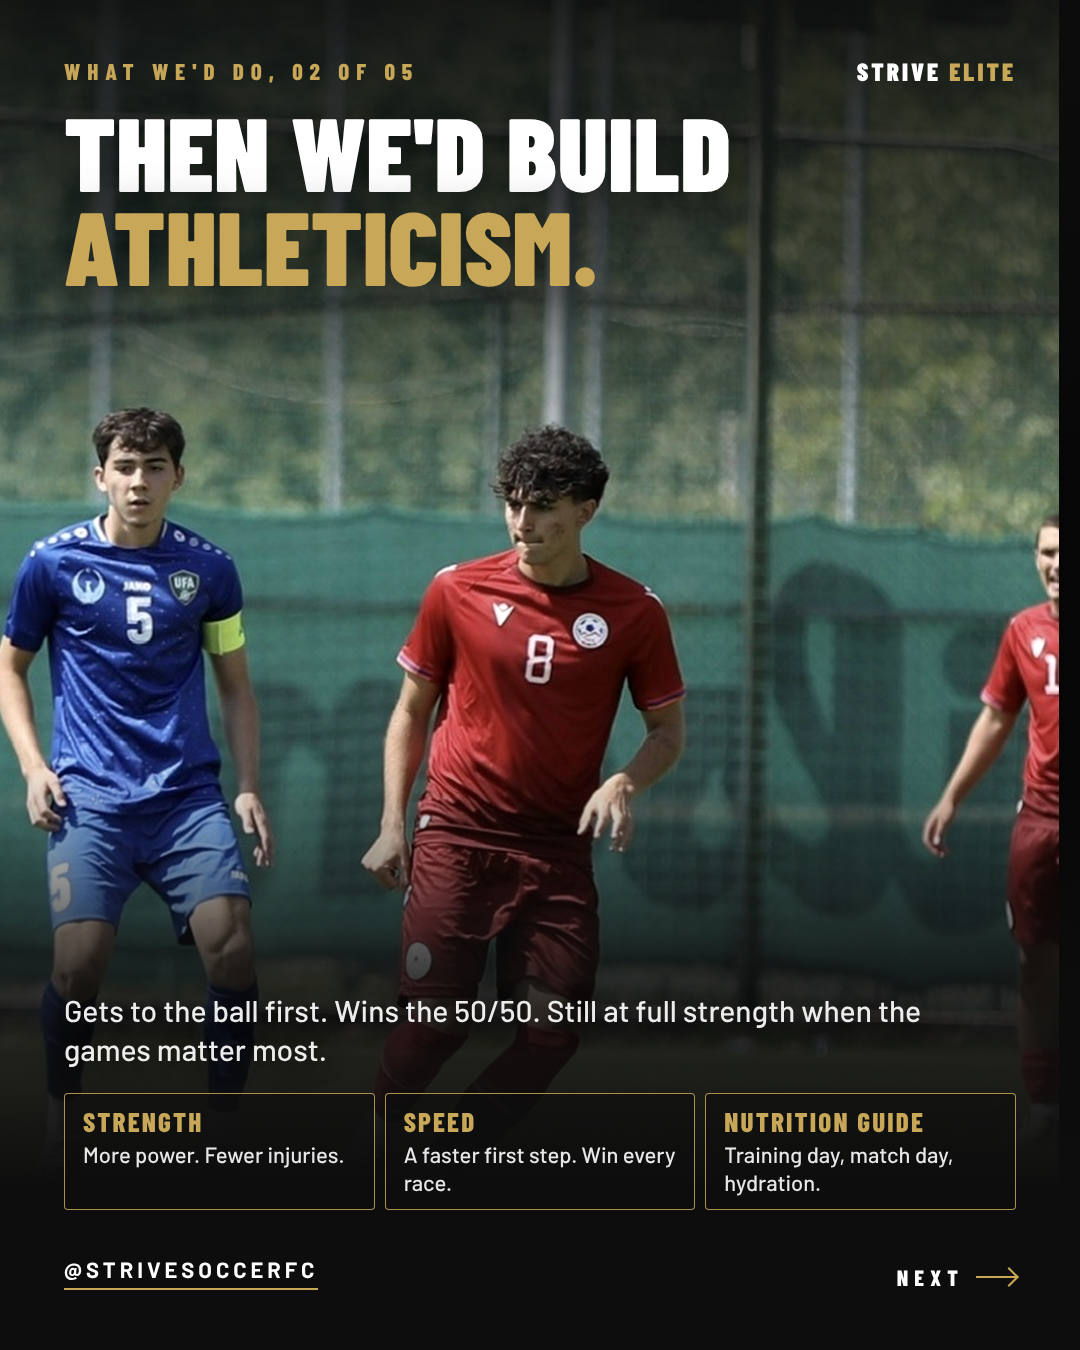
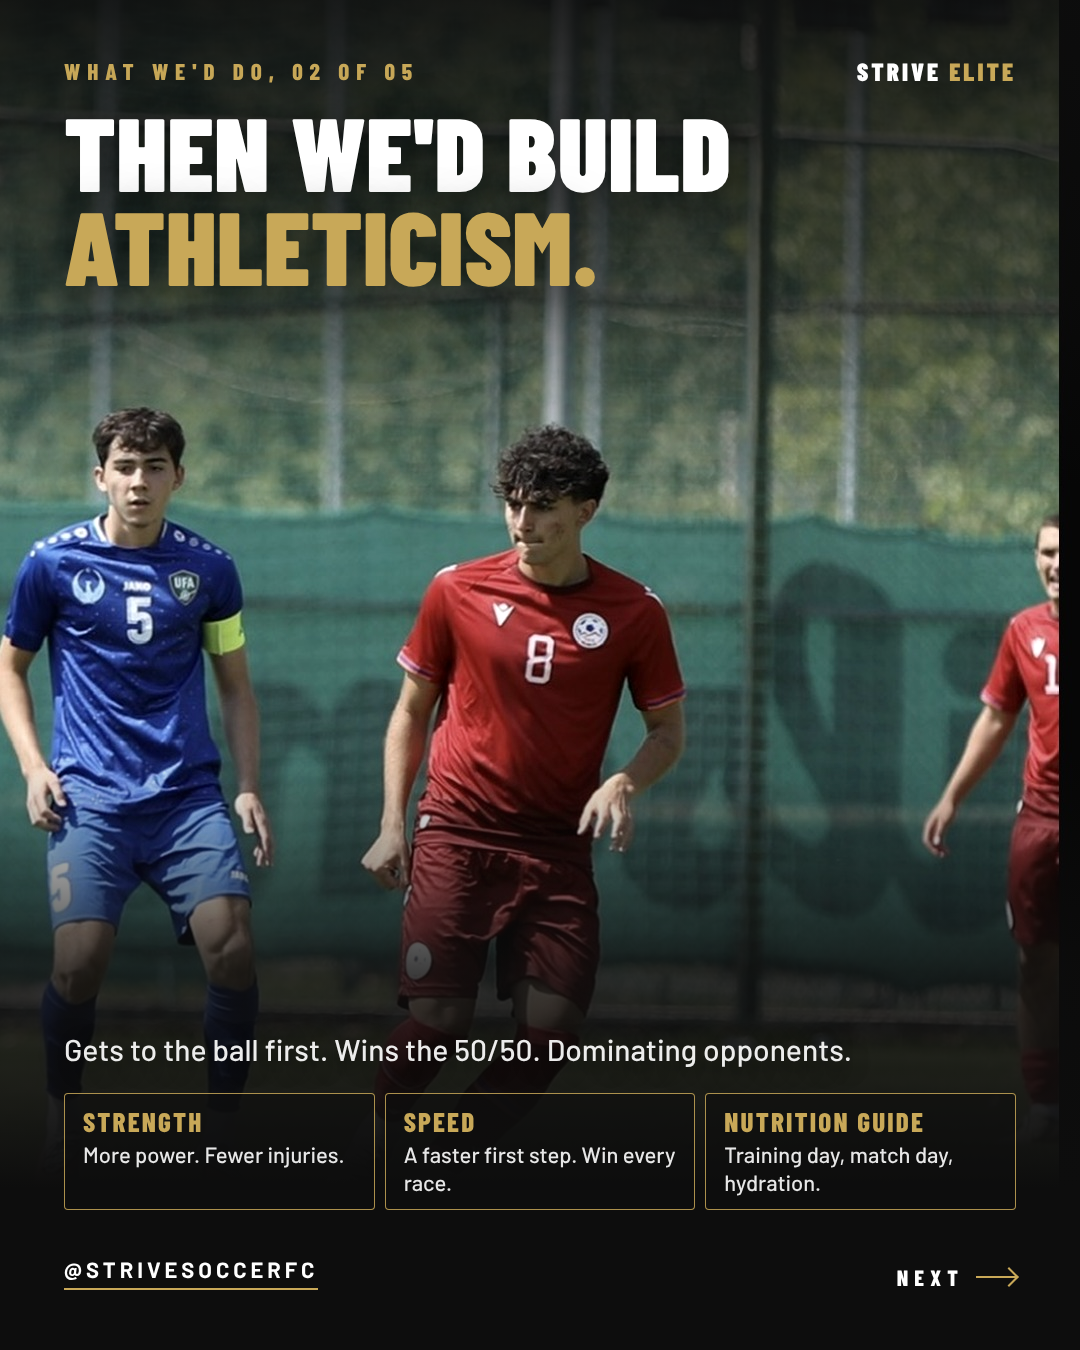
Offer carousel: step 2 ends on dominating opponents
Claude-Session: https://claude.ai/code/session_011JsCTTjCbUkHbTuWTKQSXJ

Changed region(s): [[0.0611, 0.7467, 0.8556, 0.8089]]

diff --git a/marketing/announcement/offer-post/step2.html b/marketing/announcement/offer-post/step2.html
@@ -34,5 +34,5 @@ h1 span{color:#c8a858}
 <div class="ph"></div><div class="sh"></div>
 <div class="top"><div class="step">What we'd do, 02 of 05</div><div class="wm">Strive <span>Elite</span></div></div>
 <h1>Then we'd build<br><span>athleticism.</span></h1>
-<div class="low"><p class="p">Gets to the ball first. Wins the 50/50. Still at full strength when the games matter most.</p><div class="chips n3"><span><b>Strength</b><i>More power. Fewer injuries.</i></span><span><b>Speed</b><i>A faster first step. Win every race.</i></span><span><b>Nutrition Guide</b><i>Training day, match day, hydration.</i></span></div></div>
+<div class="low"><p class="p">Gets to the ball first. Wins the 50/50. Dominating opponents.</p><div class="chips n3"><span><b>Strength</b><i>More power. Fewer injuries.</i></span><span><b>Speed</b><i>A faster first step. Win every race.</i></span><span><b>Nutrition Guide</b><i>Training day, match day, hydration.</i></span></div></div>
 <div class="handle">@strivesoccerfc</div><div class="swipe">Next <i></i></div>
